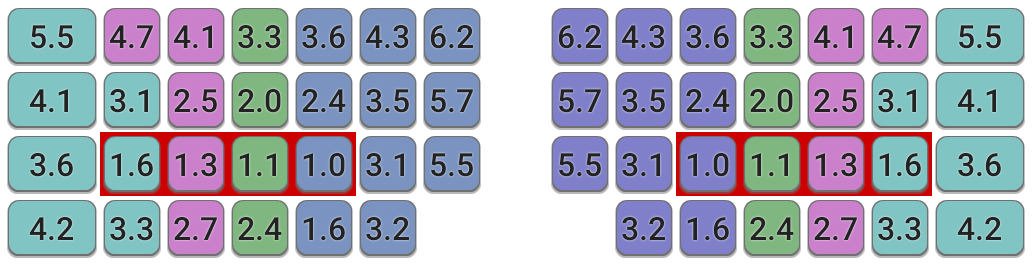
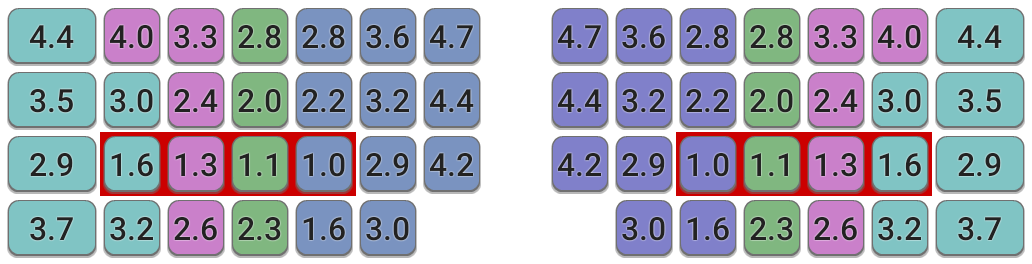
Several updates to article; include Fitts's Law; add results for standard keyboard with traditional finger assignment.

diff --git a/keyboard-effort-grid/index.html b/keyboard-effort-grid/index.html
@@ -29,9 +29,9 @@
       <section id="main_content" class="inner">
 
 
-<h2>Keyboard effort grid: An improved model</h2>
+<h2>Typing effort: An improved model</h2>
 
-<p>In this article I develop a method of calculating a keyboard effort grid in a more objective and rigorous way than is usual, with the intention of using the generated results in keyboard layout analysis software. If you want to skip over the methodological details, you can <a href="#results">jump direct to the results</a>.</p> 
+<p>In this article I present a method of calculating a keyboard effort grid in a more objective and rigorous way than is usual, with the intention of using the results in keyboard layout analysis software. If you want to skip over the methodological details, you can <a href="#results">jump direct to the results</a>.</p> 
 
 <a name="background"><h3>Background</h3></a>
 
@@ -42,24 +42,24 @@
   <figcaption>The keyboard effort grid currently used by the <a href="https://colemakmods.github.io/mod-dh/compare.html">Colemak Mod-DH project</a>.</figcaption>
 </figure>
 
-<p>In keyboard analyses, it's not possible to eliminate personal judgement entirely, so some subjectivity will always be present. Nonetheless, the ease with which each key is typed can be considered in more detail by including relevent factors which are often ignored, and using these factors to construct a systematic model.</p>
+<p>In keyboard analyses, it's not possible to eliminate personal judgement entirely, so some subjectivity will always be present. Nonetheless, the ease with which each key is typed can be considered in more detail by including several relevant factors, and using these factors to construct a systematic model.</p>
 
-<p>Note, any comprehensive keyboard analysis should include more components than just an effort grid: there are influences such as bigrams analysis, hand and finger balance, and rolls/alternation, which also play a part. These factors are outside the scope this article, as the focus here is on one element only: deriving a more accurate and rigorous keyboard effort grid based on real-world hand and keyboard geometry.</p>
+<p>Note, any comprehensive keyboard analysis should include more components than just an effort grid: there are influences such as bigram analysis, hand and finger balance, and rolls/alternation, which also play a part. These factors are outside the scope this article, as the focus here is on one element only: deriving a more accurate and rigorous keyboard typing effort model based on real-world hand and keyboard geometry.</p>
 
 <a name="notation"><h3>Notation</h3></a>
 
-To indentify keys by name, they are referred to by their Qwerty labels unless explicitly mentioned.
+To identify keys by name, they are referred to by their Qwerty labels unless explicitly mentioned.
 
 <a name="finger-lengths"><h3>Finger lengths and Angle of Approach</h3></a>
 
-<p>The home key positions <i>A S D F J K L ;</i> are right underneath the fingers when using classic touch-tying technique. It might be imagined that natural home positions of the fingers therefore corresponds to the centre of these 8 keys. But we know the fingers are not all the same lengths. Indeed, a new generation of column-staggered keyboards has appeared which recognise hand geometry explicitly: the middle fingers are longer, the pinkies shorter, and the ring and index fingers somewhere in between. The geometry of a column-staggered keyboard can be used to inform where the relaxed home-key finger positions naturally lie - in this article I am basing these positions on geometry of the Atreus keyboard since that's what I have to hand, although other column-staggered keyboards have similar designs.</p>
+<p>The home key positions <i>A S D F J K L ;</i> are right underneath the fingers when using classic touch-tying technique. It might be imagined that natural home positions of the fingers therefore corresponds to the centre of these 8 keys. But we know the fingers are not all the same lengths. Indeed, a new generation of column-staggered keyboards has appeared which recognise hand geometry explicitly: the middle fingers are longer, the pinkies shorter, and the ring and index fingers somewhere in between. The geometry of these column-staggered keyboard can be used to inform where the relaxed home-key finger positions naturally lie - in this article I am basing these positions on geometry of the Atreus keyboard, although other column-staggered keyboards have similar designs.</p>
 
 <p float="left" style="text-align: center">
   <img src="fingers.jpg" alt="Finger stagger" height="200"/>
   <img src="keyboardio_atreus.png" alt="Keyboardio Atreus" height="200"/> 
 </p>
 
-<p>The hands don't approach the keyboard at right angles to the keyboard (assuming a traditional, non-split type). A comfortable posture should involve laying out the keyboard directly in front of the user, with wrists straight and forearms approaching the keyboard symmetrically and at an angle. Using the Atreus keyboard as an example, it's notable that this assumption is built-in, by virtue of the columns being layed out at a 10° angle relative to vertical. In split and widely separated keyboards, this angle would be unnecessary, but is certainly needed for single-piece keyboards.</p>
+<p>The hands don't approach the keyboard at right angles to the keyboard (assuming a traditional, non-split type). A comfortable posture should involve laying out the keyboard directly in front of the user, with wrists straight and forearms approaching the keyboard symmetrically and at an angle. Using the Atreus keyboard as an example, it's notable that this assumption is built-in, by virtue of the columns being laid out at a 10° angle relative to vertical. In split and widely separated keyboards, this angle would be unnecessary, but is certainly needed for single-piece keyboards.</p>
 
 <p>Putting these two observations together, we can overlay the staggered key positions of the Atreus, to guide us toward more natural home positions on a standard, staggered keyboard.</p>
 
@@ -94,145 +94,203 @@ To indentify keys by name, they are referred to by their Qwerty labels unless ex
 
 <table class="center" style="min-width: 450px">
 <tr><th>Home Key</th> <th>X-displacement</th> <th>Y-displacement</th> </tr>
-<tr><td>index</td>    <td>−0.04<i>u</i></td>  <td>−0.34<i>u</i></td> </tr>
-<tr><td>middle</td>   <td>+0.03<i>u</i></td>  <td>+0.14<i>u</i></td> </tr>
-<tr><td>ring</td>     <td>+0.00<i>u</i></td>  <td>+0.05<i>u</i></td> </tr>
-<tr><td>pinky</td>    <td>+0.01<i>u</i></td>  <td>+0.07<i>u</i></td> </tr>
+<tr><td>index</td>    <td>−0.04<i>u</i></td>  <td>−0.32<i>u</i></td> </tr>
+<tr><td>middle</td>   <td>+0.03<i>u</i></td>  <td>+0.16<i>u</i></td> </tr>
+<tr><td>ring</td>     <td>+0.00<i>u</i></td>  <td>+0.08<i>u</i></td> </tr>
+<tr><td>pinky</td>    <td>+0.01<i>u</i></td>  <td>+0.09<i>u</i></td> </tr>
 <caption style="caption-side:bottom">The home positions of the fingers don't naturally coincide with the central home-row axis of a traditional keyboard. Instead, they are displaced mainly vertically - with the middle finger above and the index below - the traditional straight home-row positions. Displacements measured in standard key size units (<i>u</i>).</caption>
 </table>
 
 <p>What's notable is that (i) the ring and pinky finger home positions coincide closely, (ii) the middle finger home position is naturally a bit higher than the centre of the D and K keys, and (iii) the index finger home position is significantly below the centre of the F and J positions, reaching about ⅓ of a key unit towards the bottom row.</p>
 
-<p>My personal observation is that this pattern corresponds closely with what I've noticed in practise. When using a traditional keyboard, it's slightly easier for the index finger to reach the upper row, and also <i>significantly</i> easier for the index finger to reach down the C and M keys.</p>
+<p>My personal observation is that this pattern corresponds closely with what I've noticed in practise. When using a traditional keyboard, it's slightly easier for the middle finger to reach the upper row, and also <i>significantly</i> easier for the index finger to reach down the C and M keys.</p>
 
 <a name="finger-strength"><h3>Finger strength</h3></a>
 
-<p>Not all fingers are created equal, and there is broad agreement that the index and middle fingers are strongest, the pinkies the weakest. Quantifying the relative strengths of each finger is a subjective matter, but in this model, the effort to type a given key is multiplied by a factor based on the finger used:</p>
+<p>Not all fingers are created equal, and there is broad agreement that the index and middle fingers are strongest, the pinkies the weakest. This applies both to the action of pressing a key, and to the curling inward/outward motion used to reach keys on the top and bottom rows; in either case there will be more strain on pinkies than index fingers for the same distance moved. Quantifying the relative strengths of each finger numerically is still a subjective matter - in this model, a finger effort factor is defined as follows:</p>
 
 <table class="center">
-<tr><th>Finger</th> <th>Effort Multiplier (P<sub><i>f</i></sub>)</th> </tr>
+<tr><th>Finger</th> <th>Effort Factor (P<sub><i>f</i></sub>)</th> </tr>
 <tr><td>index</td> <td>1.0</td> </tr>
 <tr><td>middle</td> <td>1.1</td> </tr>
 <tr><td>ring</td> <td>1.3</td> </tr>
 <tr><td>pinky</td> <td>1.6</td> </tr>
 </table>
 
-<a name="key-size"><h3>Key size</h3></a>
-
-<p>Despite the fact that the index fingers may rest over the lower part of the F and J keys, it's nonetheless easy for those fingers to type their respective home keys. Fingers do not necessarily need to travel to the central point of a key to successfully strike it. This observation becomes especially significant for larger keys: Considering the left-shift key for example, the point at which it is usually pressed is significantly to the right of its midpoint. Instead of basing distance calculations on a key's central point, we should instead consider that there is a region surrounding the central point of key where it can easily be typed. It may be easier hit keys such as E and R slightly to the right of centre to mitigate the wrong-way stagger on the left-half of traditional keyboards.</p>
-
-<p>In this model, an "activation area" in the central part of each key is defined. This central part is defined as a box with margin ⅓u within the key's footprint. To strike a key, the distance travelled is considered to be that which is needed to reach a point within this area, rather than to the exact centre of the key.</p>
-
 <a name="lateral-motion"><h3>Lateral Motion</h3></a>
 
-<p>In common with <a href="https://stevep99.github.io/keyboard-layout-analyzer/">my fork of the patorjk analyzer</a>, this model also assumes lateral motion of the hand is more costly than simply curling a finger inward or outward. Consequently, motions that are <i>transverse</i> to the direction of the forearm are penalized more heavily than directions that are aligned (the <i>mesial</i> direction). Using the geometry of the Atreus keyboard as a guide, the angle-of-approach of the arms is set to 10° from the vertical in this model.</p>
+<p>In common with <a href="https://stevep99.github.io/keyboard-layout-analyzer/">my fork of the patorjk analyzer</a>, this model also assumes lateral motion of the hand is more costly than simply curling a finger inward or outward. Consequently, motions that are <i>transverse</i> to the direction of the forearm are penalized more heavily than directions that are aligned (the <i>mesial</i> direction). Using the geometry of the Atreus keyboard as a guide, the angle-of-approach of the arms is set to 10° from the vertical. In this model the lateral movement multiplier (P<sub><i>x</i></sub>) is set to 2.0, making such motions more costly than moving any individual finger.</p>
 
 <figure align="center">
   <img src="iso_angle_approach.png" alt="Angle of approach"/>
   <figcaption>The hands approach the keyboard with wrists straight, symmetrically, and at an angle. It's relatively easy for fingers to curl inward/outward to reach keys parallel to the green arrows. To reach keys in a transverse direction, indicated with blue arrows, requires the whole hand to move sideways, and therefore attracts a greater effort penalty.</figcaption>
 </figure>
 
+<a name="key-size"><h3>Key size</h3></a>
+
+<p>At noted in the <a href="#finger-lengths">Finger Lengths</a> section, the index fingers may rest over the lower part of the F and J keys rather than over the centre. Nevertheless, it's still easy for those fingers to type their respective home keys - fingers do not necessarily need to travel to the central point of a key to successfully strike it. This observation becomes especially relevant when considering larger keys: taking the left-shift key for example, the point at which it is usually pressed is significantly to the right of its midpoint. A further note on these lines is that it may be easier strike keys such as E and R slightly right of centre, to mitigate the wrong-way stagger on the left-half of traditional keyboards.</p>
+
+<p>We can infer that there is an region surrounding the central point of a key where it can be successfully typed. So instead of basing distance calculations on a key's central point, it is more accurate to consider the distance to the nearest point in this activation area. In this model, the activation area is defined as a box of margin 0.3u within the key's footprint.</p>
+
+<a name="fitts-law"><h3>Fitts's Law</h3></a>
+
+<p><a href="https://en.wikipedia.org/wiki/Fitts%27s_law">Fitts's Law</a> is a predictive model of human movement which can be used to estimate the time or effort it takes to perform a variety of actions, based on the distance and size of the target.</p>
+
+<p>This observation is used to inform the model of typing. While further-away keys require more effort, it is noted that this can be mitigated to some extent by the size of the <nobr>key &ndash; larger</nobr> keys are relatively easier to hit! Fitts's Law suggests that the distance-based penalty used this model should use a logarithmic, rather than linear scaling, so the formula used for the lateral distance-based penality is this:</p>
+
+<pre style="text-align:center">
+F<sub>x</sub> = Log<sub>2</sub> ( 1 + P<sub><i>d</i></sub> D<sub><i>x</i></sub> / W)
+</pre>
+
+<p>&nbsp;...where P<sub><i>d</i></sub> is a distance-based penalty constant, D<sub><i>x</i></sub> is the lateral distance to the target key, and W is the width of the key. The formula for the mesial (<i>y</i>) direction is equivalent.
+</p>
+
+</a>
 <a name="model"><h3>Creating a new model</h3></a>
 
-<p>Putting these observations together makes it possible to create a new model of keyboard effort grid for any arbitrary keyboard geometry, by calculating the effort values from base principles. In summary, the model works like this:</p>
+<p>Putting all these observations together makes it possible to create a new model of keyboard effort grid for any arbitrary keyboard geometry, by calculating the effort values from base principles. In summary, the model works like this:</p>
 
 <ul>
-<li>the effort to type a key is deemed to be a combination of the mesial and lateral components of the distance from the home position. The mesial component is finger-dependent, representing the finger curling action, whereas the lateral component requires the hand to move, and is more effort (x2).</li>
-<li>the distances are calculated based on the finger reaching the nearest point in the "activation area" rather than than the central point on a key.</li>
-<li>the home positions for each finger used in the calculation are informed by natural variation in finger length and the design of column-staggered keyboards.</li>
-<li>the finger used to type each key is not imposed on the model, but rather is determined automatically as the one which minimizes the effort function.</li>
+<li>The effort to type a key is depends on the finger used, the distance moved, and the type of motion that was required.</li>
+<li>The average motion-based effort penalty is deemed to be a combination of the mesial and lateral components of the distance from the home position. The mesial component is finger-dependent, representing the finger curling action, whereas the lateral component requires the whole hand to move.</li>
+<li>The home positions for each finger used in the calculation are informed by natural variation in finger length and the design of column-staggered keyboards.</li>
+<li>Distances are calculated based on the finger reaching the nearest point in the "activation area" rather than than the central point on a key, with the associated penalty logarithmically scaled.</li>
+<li>The finger used to type each key is not imposed on the model, but rather is determined automatically as the one which minimizes the effort function.</li>
 </ul>
 
 <p>The total effort value for each key, P<sub><i>total</i></sub>, is calculated with the formula:</p>
 <pre style="text-align:center">
-P<sub><i>total</i></sub> = P<sub><i>f</i></sub> + P<sub><i>d</i></sub> (P<sub><i>f</i></sub> D<sub><i>mesial</i></sub> + 2 D<sub><i>lateral</i></sub>)
+P<sub><i>total</i></sub> = P<sub><i>f</i></sub> + <i>dist</i>( P<sub><i>f</i></sub> F<sub><i>y</i></sub>, P<sub><i>x</i></sub> F<sub><i>x</i></sub> ) 
 </pre>
 
-<p>&nbsp;...where P<sub><i>d</i></sub> is a distance-based penalty constant, P<sub><i>f</i></sub> is the finger-based penalty, and D<sub><i>mesial</i></sub>, D<sub><i>lateral</i></sub> are the two components of the distance vector of the key's activation area from the home position.</p>
+<p>&nbsp;...where P<sub><i>f</i></sub> is the finger-based penalty, P<sub><i>x</i></sub> is the lateral-movement penalty, and F<sub><i>x</i></sub>, F<sub><i>y</i></sub> are the two components of the distance penalty with Fitt's Law applied. The <i>dist(x,y)</i> function is <i>sqrt(x<sup>2</sup> + y<sup>2</sup>)</i>.</p>
 
 <a name="results"><h3>Results</h3></a>
 
-<h4>Traditional Keyboard</h4>
+<h4>Standard Keyboard</h4>
 
-<p>Using this new model, the effort scores for each key on the keyboard can be calculated. The finger whose effort score is lowest is also caculated to determine an objective indication of which finger should be used for each key.</p>
+<p>Using this new model, the effort scores for each key on a standard keyboard can be calculated. The finger whose effort value is lowest is used to provide at objective indication of which finger should be used to type each key.</p>
 
-<figure id="result_iso_scores1">
-  <img src="keyb_calc_iso_scores.png" alt="The generated keyboard effort grid."/>
+<figure id="result_std_ergo_scores">
+  <img src="keyb_calc_std_ergo_scores.png" alt="The generated keyboard effort grid."/>
   <figcaption>The generated keyboard effort grid, colour-coded by effort.</figcaption>
 </figure>
-<figure id="result_iso_scores2">
-  <img src="keyb_calc_iso_fingers.png" alt="The generated keyboard effort grid."/>
+<figure id="result_std_ergo_fingers">
+  <img src="keyb_calc_std_ergo_fingers.png" alt="The generated keyboard effort grid."/>
   <figcaption>The generated keyboard effort grid, colour-coded by finger that should be used.</figcaption>
 </figure>
 <div style="text-align:center">
-  <input type="radio" id="result_iso_scores1_radio" name="result_scores" checked="checked" onclick="showResultIso(1)"/>
-  <label for="result_iso_scores1_radio">Show by score</label>
-  <input type="radio" id="result_iso_scores2_radio" name="result_scores" onclick="showResultIso(2)";>
-  <label for="result_iso_scores2_radio">Show by finger</label>
+  <input type="radio" id="result_std_ergo_scores_radio" name="result_std_ergo" checked="checked" onclick="showResultStdErgo(1)"/>
+  <label for="result_std_ergo_scores_radio">Show by score</label>
+  <input type="radio" id="result_std_ergo_fingers_radio" name="result_std_ergo" onclick="showResultStdErgo(2)";>
+  <label for="result_std_ergo_fingers_radio">Show by finger</label>
 </div>
 <script>
-  function showResultIso(visibleId) {
-    var result_iso_scores1 = document.getElementById('result_iso_scores1');
-    var result_iso_scores2 = document.getElementById('result_iso_scores2');
+  function showResultStdErgo(visibleId) {
+    var result_std_ergo_scores = document.getElementById('result_std_ergo_scores');
+    var result_std_ergo_fingers = document.getElementById('result_std_ergo_fingers');
     if (visibleId == 1) {
-      result_iso_scores1.style.display = "block";
-      result_iso_scores2.style.display = "none";
+      result_std_ergo_scores.style.display = "block";
+      result_std_ergo_fingers.style.display = "none";
     } else if (visibleId == 2) {
-      result_iso_scores1.style.display = "none";
-      result_iso_scores2.style.display = "block";  
+      result_std_ergo_scores.style.display = "none";
+      result_std_ergo_fingers.style.display = "block";  
     }
   }
-  showResultIso(1);
+  showResultStdErgo(1);
 </script>
 
-<p>The results are broadly in line with expectations, favouring home keys and strong fingers directly above and below the home positions. There are also similarities with the current Colemak-DH effort grid shown at the top of the page. But there are some noteworthy observations:</p>
+<br/>
 
 <ul>
-  <li>The top-row left hand positions (W, E, R) are penalised more strongly than the equivalents on the right, due to the wrong-way stagger of traditional keyboards on the left-hand side. However a consequence is that the T position is found to be significantly better than Y.</li>
+  <li>The results are broadly in line with expectations, favouring home keys and strong fingers directly above and below the home positions.</li>
+  <li>It's similar to the <a href="#background">current Colemak-DH effort grid</a> shown at the top of the page, although there are noteable notable differences.</li>
+  <li>The top-row left hand positions (W, E, R) are penalised more strongly than the equivalents on the right, due to the wrong-way stagger of traditional keyboards on the left-hand side. An additional consequence is that the T position is found to be significantly better than Y.</li>
   <li>The best non-home keys on the keyboard are still C and M, but the other bottom-row index-finger keys V and N perform better than expected too.</li>
-  <li>The calculated finger assigments suggest middle fingers should be used for keys 3,4,8,9, index fingers for 5,6,7.</li>
+  <li>The calculated finger assignments suggest ring fingers should be used for keys 2,3,0; middle fingers for 4,8,9; and index fingers for 5,6,7.</li>
   <li>Keys on the far-right of the keyboard are costly and should be avoided (e.g. by using mods like <a href="https://colemakmods.github.io/ergonomic-mods/extend.html">Extend</a>, <a href="https://colemakmods.github.io/ergonomic-mods/wide.html">Wide</a>, or both!)</li>  
+</ul>
+
+<h4>Standard Keyboard with traditional finger pattern</h4>
+
+<p>In this case, instead of calculating the optimal finger for each key, the fingers are <nobr>pre-assigned</nobr> to keys using the traditional, staggered pattern. For some keys this will not be the most optimal assignment.</p>
+
+<figure id="result_std_trad_scores">
+  <img src="keyb_calc_std_trad_scores.png" alt="The generated keyboard effort grid."/>
+  <figcaption>The generated keyboard effort grid, colour-coded by effort.</figcaption>
+</figure>
+<figure id="result_std_trad_fingers">
+  <img src="keyb_calc_std_trad_fingers.png" alt="The generated keyboard effort grid."/>
+  <figcaption>The generated keyboard effort grid, colour-coded by finger that should be used.</figcaption>
+</figure>
+<div style="text-align:center">
+  <input type="radio" id="result_std_trad_scores_radio" name="result_std_trad" checked="checked" onclick="showResultStdTrad(1)"/>
+  <label for="result_std_trad_scores_radio">Show by score</label>
+  <input type="radio" id="result_std_trad_fingers_radio" name="result_std_trad" onclick="showResultStdTrad(2)";>
+  <label for="result_std_trad_fingers_radio">Show by finger</label>
+</div>
+<script>
+  function showResultStdTrad(visibleId) {
+    var result_std_trad_scores = document.getElementById('result_std_trad_scores');
+    var result_std_trad_fingers = document.getElementById('result_std_trad_fingers');
+    if (visibleId == 1) {
+      result_std_trad_scores.style.display = "block";
+      result_std_trad_fingers.style.display = "none";
+    } else if (visibleId == 2) {
+      result_std_trad_scores.style.display = "none";
+      result_std_trad_fingers.style.display = "block";  
+    }
+  }
+  showResultStdTrad(1);
+</script>
+
+<br/>
+
+<ul>
+  <li>For most keys there is no difference between the traditional finger assignment and the calculated optimal assignment above.</li>
+  <li>The most significant difference is for the bottom-row left-hand keys (<i>Z X C</i>), which are significantly worse if the traditional finger assignment is used.</li>
+  <li>The results also suggest some number keys, such as 4,6,9,0 can be improved by using non-traditional finger assignment.</li>
 </ul>
 
 <h4>Matrix Keyboard</h4>
 
 <p>Since the model can be applied to arbitrary keyboard geometries, it's possible to calculate the effort grid for non-traditional designs, such as this matrix-like layout. In this case the board is assumed to be split, and the user is free to angle each half appropriately, so the model's 10° angle-of-approach factor is not required in this case.</p>
 
-<figure id="result_matrix_scores1">
+<figure id="result_matrix_scores">
   <img src="keyb_calc_matrix_scores.png" alt="The generated keyboard effort grid."/>
   <figcaption>The generated matrix keyboard effort grid, colour-coded by effort.</figcaption>
 </figure>
-<figure id="result_matrix_scores2">
+<figure id="result_matrix_fingers">
   <img src="keyb_calc_matrix_fingers.png" alt="The generated keyboard effort grid."/>
   <figcaption>The generated matrix keyboard effort grid, colour-coded by finger that should be used.</figcaption>
 </figure>
 <div style="text-align:center">
-  <input type="radio" id="result_matrix_scores1_radio" name="result_matrix_scores" checked="checked" onclick="showResultMatrix(1)"/>
-  <label for="result_matrix_scores1_radio">Show by score</label>
-  <input type="radio" id="result_matrix_scores2_radio" name="result_matrix_scores" onclick="showResultMatrix(2)";>
-  <label for="result_matrix_scores1_radio">Show by finger</label>
+  <input type="radio" id="result_matrix_scores_radio" name="result_matrix" checked="checked" onclick="showResultMatrix(1)"/>
+  <label for="result_matrix_scores_radio">Show by score</label>
+  <input type="radio" id="result_matrix_fingers_radio" name="result_matrix" onclick="showResultMatrix(2)";>
+  <label for="result_matrix_scores_radio">Show by finger</label>
 </div>
 <script>
   function showResultMatrix(visibleId) {
-    var result_matrix_scores1 = document.getElementById('result_matrix_scores1');
-    var result_matrix_scores2 = document.getElementById('result_matrix_scores2');
+    var result_matrix_scores = document.getElementById('result_matrix_scores');
+    var result_matrix_fingers = document.getElementById('result_matrix_fingers');
     if (visibleId == 1) {
-      result_matrix_scores1.style.display = "block";
-      result_matrix_scores2.style.display = "none";
+      result_matrix_scores.style.display = "block";
+      result_matrix_fingers.style.display = "none";
     } else if (visibleId == 2) {
-      result_matrix_scores1.style.display = "none";
-      result_matrix_scores2.style.display = "block";  
+      result_matrix_scores.style.display = "none";
+      result_matrix_fingers.style.display = "block";  
     }
   }
   showResultMatrix(1);
 </script>
 
-<p></p>
+<br/>
 
 <ul>
-  <li>The scoring pattern is broadly similar to the traditional keyboard, with most differences representing small improvements over the staggered keyboard design.</li>
+  <li>The scoring pattern is largely similar to the traditional keyboard, with most differences representing small improvements over the staggered keyboard design.</li>
   <li>Some keys, such as the bottom-row keys directly under index fingers' home, are even more favoured. However, the T position is notably worse.</li>
-  <li>The calculated finger assignments are mostly in neat columns, however the model suggests using ring fingers for keys 1 and 0.</li>
+  <li>The calculated finger assignments are mostly in neat columns, however the model suggests using ring fingers rather than pinkies for the 1 and 0 keys.</li>
 </ul>
 
 

diff --git a/css/style.css b/css/style.css
@@ -821,3 +821,22 @@ caption {
 	font-size:14px;
 	text-align:center;
 }
+
+pre {
+  font-size: 110%;
+}
+
+sub, sup {
+  font-size: 75%;
+  line-height: 0;
+  position: relative;
+  vertical-align: baseline;
+}
+
+sup {
+  top: -0.5em;
+}
+
+sub {
+  bottom: -0.25em;
+}
